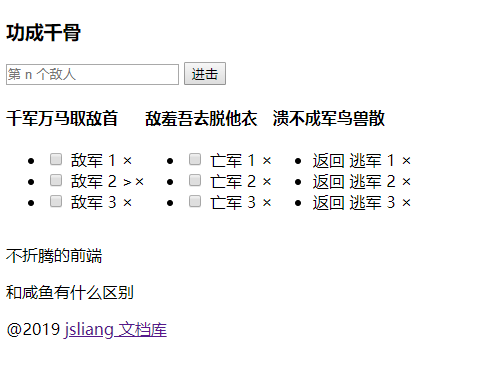
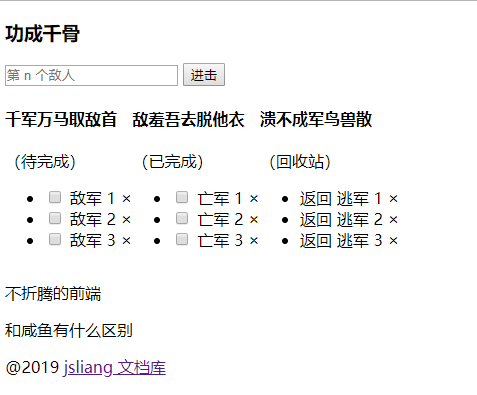
未完成 - Vue Demo 之 功成千骨

diff --git a/JavaScript-library/Vue/VueDemoOne.md b/JavaScript-library/Vue/VueDemoOne.md
@@ -118,6 +118,7 @@
         <!-- 未完成 -->
         <div class="content-list-todo">
           <h4>千军万马取敌首</h4>
+          <p>（待完成）</p>
           <ul>
             <li>
               <input type="checkbox">
@@ -139,6 +140,7 @@
         <!-- 已完成 -->
         <div class="content-list-finish">
           <h4>敌羞吾去脱他衣</h4>
+          <p>（已完成）</p>
           <ul>
             <li>
               <input type="checkbox">
@@ -160,6 +162,7 @@
         <!-- 回收站 -->
         <div class="content-list-recycle">
           <h4>溃不成军鸟兽散</h4>
+          <p>（回收站）</p>
           <ul>
             <li>
               <span class="content-list-recycle-back">返回</span>
@@ -226,41 +229,47 @@
 <div class="content">
   <!-- 输入区 -->
   <div class="content-input-todo">
-    <input type="text" placeholder="第 n 个敌人" v-model="todo">
+    <input type="text" placeholder="第 n 个敌人">
     <button>进击</button>
   </div>
   <!-- 列表区 -->
   <div class="content-list">
     <!-- 未完成 -->
     <div class="content-list-todo">
-      <p>千军万马取敌首</p>
+      <h4>千军万马取敌首</h4>
+      <p>（待完成）</p>
       <ul>
-        <li v-for="todoItem in todoInfos" :key="todoItem.id">
+        <li v-for="todoItem in todoInfos" :key="todoItem.id" v-if="todoItem.state == 0">
           <input type="checkbox" v-model="todoItem.isChecked">
-          <span v-text="todoItem.todoTitle"></span>
-          <span>×</span>
+          <span class="todo-title" v-if="!todoItem.isEdit" v-text="todoItem.todoTitle"></span>
+          <input v-if="todoItem.isEdit" type="text" v-model="todoItem.todoTitle">
+          <span class="icon-recycle"></span>
         </li>
       </ul>
     </div>
     <!-- 已完成 -->
     <div class="content-list-finish">
-      <p>敌羞吾去脱他衣</p>
+      <h4>敌羞吾去脱他衣</h4>
+      <p>（已完成）</p>
       <ul>
-        <li v-for="finishItem in finishInfos" :key="finishItem.id">
+        <li v-for="finishItem in todoInfos" :key="finishItem.id" v-if="finishItem.state == 1">
           <input type="checkbox" v-model="finishItem.isChecked">
-          <span v-text="finishItem.todoTitle"></span>
-          <span>×</span>
+          <span class="todo-title" v-if="!finishItem.isEdit" v-text="finishItem.todoTitle"></span>
+          <input v-if="finishItem.isEdit" v-model="finishItem.todoTitle" type="text">
+          <span  class="icon-recycle"></span>
         </li>
       </ul>
     </div>
     <!-- 回收站 -->
     <div class="content-list-recycle">
-      <p>溃不成军鸟兽散</p>
+      <h4>溃不成军鸟兽散</h4>
+      <p>（回收站）</p>
       <ul>
-        <li v-for="recycleItem in recycleInfos" :key="recycleItem.id">
-          <input type="checkbox" v-model="recycleItem.isChecked">
-          <span v-text="recycleItem.todoTitle"></span>
-          <span>×</span>
+        <li v-for="recycleItem in todoInfos" :key="recycleItem.id" v-if="recycleItem.state == 2">
+          <span class="content-list-recycle-back"></span>
+          <span class="todo-title" v-if="!recycleItem.isEdit" v-text="recycleItem.todoTitle"></span>
+          <input v-if="recycleItem.isEdit" type="text" v-model="recycleItem.todoTitle">
+          <span  class="icon-delete"></span>
         </li>
       </ul>
     </div>
